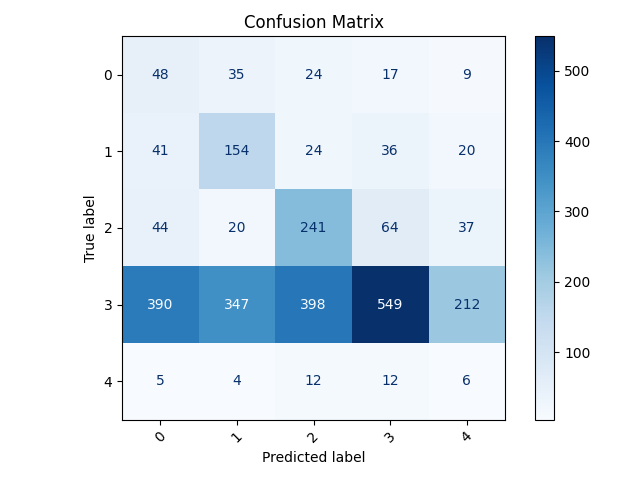
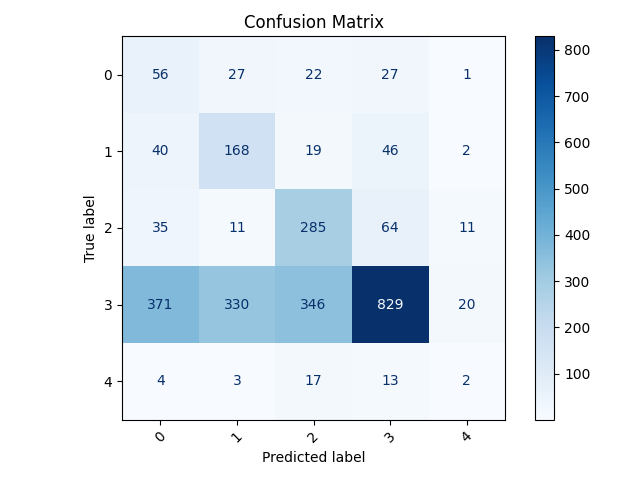
hyperparameters kNN

diff --git a/VAE/kNN.py b/VAE/kNN.py
@@ -1,6 +1,7 @@
 from sklearn.model_selection import GridSearchCV
 from sklearn.metrics import classification_report, confusion_matrix
 from sklearn.neighbors import KNeighborsClassifier
+from sklearn.pipeline import make_pipeline
 from sklearn.preprocessing import StandardScaler
 from sklearn.svm import SVC
 import pandas as pd
@@ -9,7 +10,7 @@ sys.path.append("../")
 from metrics_plotter import generate_classification_report, generate_confusion_matrix
 
 if __name__ == "__main__":
-    latent_dim = 32   # Replace with the desired latent dimension L
+    latent_dim = 32  # Replace with the desired latent dimension L
     num_classes = 5  # Number of classes in the dataset
 
     train_path = f"../dataset/train_VAE_{latent_dim}/encoded_latents.csv"
@@ -28,15 +29,16 @@ if __name__ == "__main__":
     X_test = test[:, :-1]
 
     # Apply standard scaling
-    scaler = StandardScaler()
-    X_train = scaler.fit_transform(X_train)
-    X_test = scaler.transform(X_test)
-
-    knn = KNeighborsClassifier(n_neighbors=1)
-    knn.fit(X_train, y_train)
+    pipe = make_pipeline(StandardScaler(), KNeighborsClassifier())
+    param_grid = {'kneighborsclassifier__n_neighbors': [1, 3, 5, 7, 9, 11]}
+    grid = GridSearchCV(pipe, param_grid, cv=5, scoring='f1_weighted', verbose=3)
+    grid.fit(X_train, y_train)
+    best_knn = grid.best_estimator_
+    print("Best Parameters from GridSearchCV:", grid.best_params_)
+    k = grid.best_params_['kneighborsclassifier__n_neighbors']
 
     # Test on the test set
-    y_pred = knn.predict(X_test)
+    y_pred = best_knn.predict(X_test)
     print("\nClassification Report on Test Data:\n")
     print(classification_report(y_test, y_pred))
     class_report = classification_report(y_test, y_pred, output_dict=True)

diff --git a/AE/kNN.py b/AE/kNN.py
@@ -1,6 +1,7 @@
 from sklearn.model_selection import GridSearchCV
 from sklearn.metrics import classification_report, confusion_matrix
 from sklearn.neighbors import KNeighborsClassifier
+from sklearn.pipeline import make_pipeline
 from sklearn.preprocessing import StandardScaler
 from sklearn.svm import SVC
 import pandas as pd
@@ -9,7 +10,7 @@ sys.path.append("../")
 from metrics_plotter import generate_classification_report, generate_confusion_matrix
 
 if __name__ == "__main__":
-    latent_dim = 32   # Replace with the desired latent dimension L
+    latent_dim = 8   # Replace with the desired latent dimension L
     num_classes = 5  # Number of classes in the dataset
 
     train_path = f"../dataset/train_AE_{latent_dim}/encoded_latents.csv"
@@ -28,15 +29,16 @@ if __name__ == "__main__":
     X_test = test[:, :-1]
 
     # Apply standard scaling
-    scaler = StandardScaler()
-    X_train = scaler.fit_transform(X_train)
-    X_test = scaler.transform(X_test)
-
-    knn = KNeighborsClassifier(n_neighbors=1)
-    knn.fit(X_train, y_train)
+    pipe = make_pipeline(StandardScaler(), KNeighborsClassifier())
+    param_grid = {'kneighborsclassifier__n_neighbors': [1, 3, 5, 7, 9, 11]}
+    grid = GridSearchCV(pipe, param_grid, cv=5, scoring='f1_weighted', verbose=3)
+    grid.fit(X_train, y_train)
+    best_knn = grid.best_estimator_
+    print("Best Parameters from GridSearchCV:", grid.best_params_)
+    k = grid.best_params_['kneighborsclassifier__n_neighbors']
 
     # Test on the test set
-    y_pred = knn.predict(X_test)
+    y_pred = best_knn.predict(X_test)
     print("\nClassification Report on Test Data:\n")
     print(classification_report(y_test, y_pred))
     class_report = classification_report(y_test, y_pred, output_dict=True)
